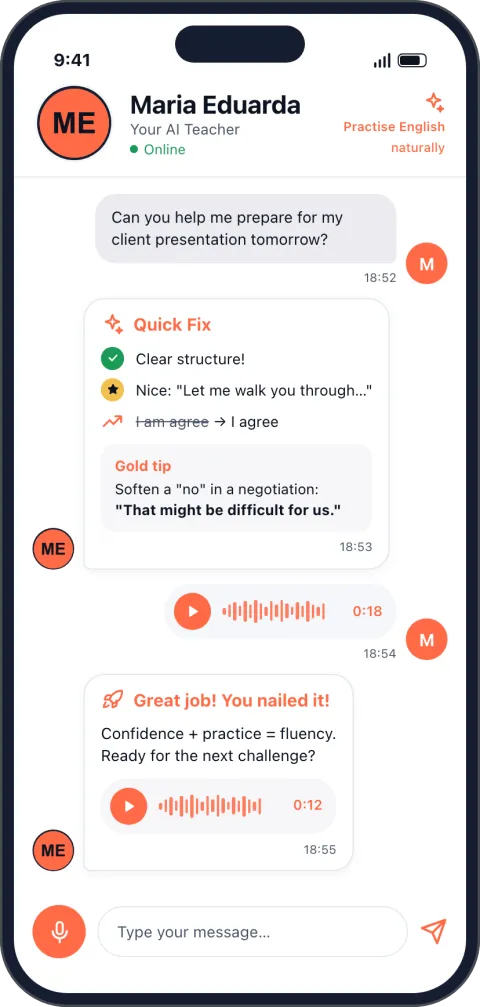
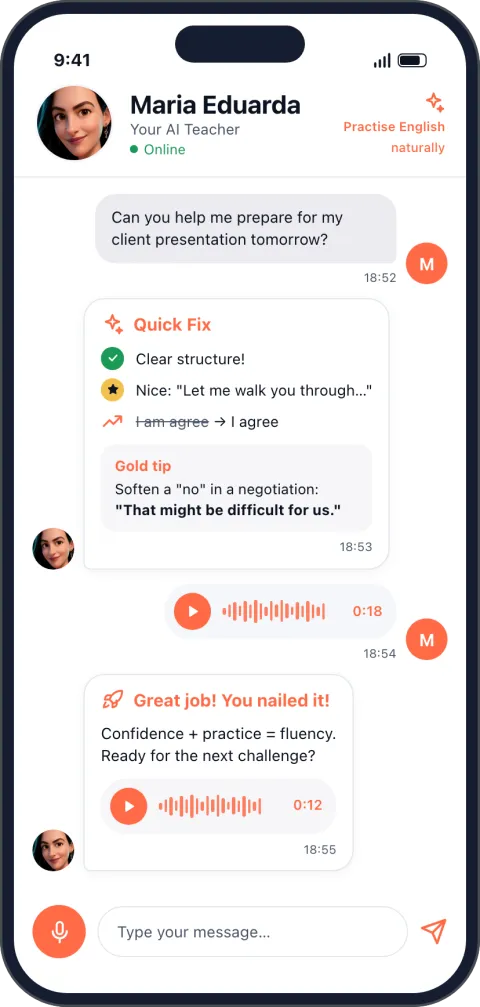
Foto da professora e AI Teacher 3D

Changed region(s): [[0.0625, 0.0616, 0.25, 0.1847], [0.0625, 0.5233, 0.1562, 0.5849], [0.0625, 0.8004, 0.1562, 0.862]]

diff --git a/index.html b/index.html
@@ -134,7 +134,7 @@ fbq('init','[[FALTA: ID do pixel]]');fbq('track','PageView');
 }
 </script>
 -->
-<link rel="preload" as="image" href="img/chat.webp" fetchpriority="high">
+<link rel="preload" as="image" href="img/ai-teacher.webp" imagesrcset="img/ai-teacher-360.webp 360w, img/ai-teacher.webp 640w" imagesizes="(min-width:760px) 360px, 72vw" fetchpriority="high">
 <link rel="icon" href="img/icone.svg" type="image/svg+xml">
 <link rel="stylesheet" href="tokens.css">
 <link rel="stylesheet" href="styles.css">
@@ -153,16 +153,16 @@ fbq('init','[[FALTA: ID do pixel]]');fbq('track','PageView');
 <div>
 <span class="eyebrow"><code>$ standup --english</code> · Inglês para quem trabalha com tecnologia</span>
 <h1 id="h">Você sabe o que fez ontem. Na daily, não sai em inglês?</h1>
-<p class="sub" id="s">O Standup English é o programa de inglês para tech da professora Maria Eduarda Moraes: você treina a fala todo dia com uma AI Teacher, ensaia a daily, a entrevista e o call em simulados reais e tem feedback humano todo mês.</p>
+<p class="sub" id="s">O Standup English é o programa de inglês para tech da professora Maria Eduarda Moraes: você treina a fala todo dia com a AI Teacher dela, com o rosto, a voz e o jeito de ensinar da Maria, ensaia a daily, a entrevista e o call em simulados reais e tem feedback humano todo mês.</p>
 <a class="btn js-comprar" href="#preco" aria-label="Começar o Standup English por R$ 100 por mês">Quero começar <svg viewBox="0 0 24 24" fill="none" stroke="currentColor" stroke-width="2.5" stroke-linecap="round" stroke-linejoin="round" aria-hidden="true"><path d="M5 12h14M13 6l6 6-6 6"/></svg></a>
 <p class="micro">R$ 100 por mês · 7 dias de garantia</p>
 <p class="apoio"><a href="https://wa.me/?text=Oi%2C%20Maria%20Eduarda%21%20Vim%20pelo%20site%20do%20Standup%20English%20e%20tenho%20uma%20d%C3%BAvida.%20%28ref%3A%20ANG%20%C2%B7%20UTM%29" data-wa>Dúvidas? Fale com a Maria Eduarda no WhatsApp</a></p>
 <p class="cred">Por Maria Eduarda Moraes, quase 20 anos dando aula de inglês.</p>
 </div>
-<figure class="fone-hero">
-<img src="img/chat.webp" width="480" height="1007" fetchpriority="high" alt="Tela do app Standup English com uma conversa por voz com a AI Teacher, com correções durante a conversa.">
-<span class="tag-ai"><svg viewBox="0 0 24 24" fill="none" stroke="currentColor" stroke-width="2" stroke-linecap="round" stroke-linejoin="round" aria-hidden="true"><path d="M12 3l1.8 4.6L18.5 9l-4.7 1.6L12 15l-1.8-4.4L5.5 9l4.7-1.4z"/></svg>AI Teacher 24h</span>
-<figcaption class="bolha"><code>&gt; explain the bug in 30 seconds_</code></figcaption>
+<figure class="ai-hero">
+<img src="img/ai-teacher.webp" srcset="img/ai-teacher-360.webp 360w, img/ai-teacher.webp 640w" sizes="(min-width:760px) 360px, 72vw" width="640" height="849" fetchpriority="high" alt="A AI Teacher do Standup English, versão 3D da professora Maria Eduarda Moraes.">
+<span class="tag-ai"><svg viewBox="0 0 24 24" fill="none" stroke="currentColor" stroke-width="2" stroke-linecap="round" stroke-linejoin="round" aria-hidden="true"><path d="M12 3l1.8 4.6L18.5 9l-4.7 1.6L12 15l-1.8-4.4L5.5 9l4.7-1.4z"/></svg>AI Teacher · 24h</span>
+<figcaption class="bolha"><b>Hi! I'm your AI Teacher.</b><code>&gt; ready for your daily?_</code></figcaption>
 </figure>
 </div>
 </section>
@@ -257,7 +257,32 @@ fbq('init','[[FALTA: ID do pixel]]');fbq('track','PageView');
 <figure class="tela"><img src="img/pronuncia.webp" width="480" height="1007" loading="lazy" alt="Tela do app Standup English com a nota de pronúncia de cada frase."><figcaption>A nota da sua pronúncia, frase a frase.</figcaption></figure>
 <figure class="tela"><img src="img/progresso.webp" width="480" height="1007" loading="lazy" alt="Tela do app Standup English com frequência, tempo de estudo e evolução de nível."><figcaption>Frequência, tempo de estudo e evolução de nível.</figcaption></figure>
 </div>
-<p class="rotulo">Telas ilustrativas. [[FALTA: foto e voz da Maria Eduarda para a AI Teacher]]</p>
+<p class="rotulo">Telas ilustrativas.</p>
+</div>
+</section>
+<section class="escura ai" aria-labelledby="aih">
+<div class="wrap ai-grade">
+<figure class="ai-foto"><img src="img/ai-teacher.webp" srcset="img/ai-teacher-360.webp 360w, img/ai-teacher.webp 640w" sizes="(min-width:760px) 400px, 80vw" width="640" height="849" loading="lazy" alt="A AI Teacher do Standup English em 3D."><span class="tag-ai">AI Teacher</span></figure>
+<div>
+<span class="eyebrow">A sua AI Teacher</span>
+<h2 id="aih">A Maria Eduarda, disponível 24 horas</h2>
+<p style="margin-top:1.2rem">A AI Teacher do Standup English tem o rosto, a voz e o jeito de ensinar da Maria Eduarda. Ela conversa com você em inglês por voz, a qualquer hora, e corrige você enquanto você fala.</p>
+<ul class="ai-lista">
+<li><svg viewBox="0 0 24 24" fill="none" stroke="currentColor" stroke-width="2.5" stroke-linecap="round" stroke-linejoin="round" aria-hidden="true"><path d="M5 12.5l4.5 4.5L19 7.5"/></svg>Disponível 24 horas, no seu celular</li>
+<li><svg viewBox="0 0 24 24" fill="none" stroke="currentColor" stroke-width="2.5" stroke-linecap="round" stroke-linejoin="round" aria-hidden="true"><path d="M5 12.5l4.5 4.5L19 7.5"/></svg>Você fala e ela responde falando</li>
+<li><svg viewBox="0 0 24 24" fill="none" stroke="currentColor" stroke-width="2.5" stroke-linecap="round" stroke-linejoin="round" aria-hidden="true"><path d="M5 12.5l4.5 4.5L19 7.5"/></svg>Corrige pronúncia, gramática e vocabulário enquanto você fala</li>
+<li><svg viewBox="0 0 24 24" fill="none" stroke="currentColor" stroke-width="2.5" stroke-linecap="round" stroke-linejoin="round" aria-hidden="true"><path d="M5 12.5l4.5 4.5L19 7.5"/></svg>Dá a nota da sua pronúncia, frase a frase</li>
+<li><svg viewBox="0 0 24 24" fill="none" stroke="currentColor" stroke-width="2.5" stroke-linecap="round" stroke-linejoin="round" aria-hidden="true"><path d="M5 12.5l4.5 4.5L19 7.5"/></svg>Ensaia com você a daily, a entrevista e o call, e cenários sob medida</li>
+<li><svg viewBox="0 0 24 24" fill="none" stroke="currentColor" stroke-width="2.5" stroke-linecap="round" stroke-linejoin="round" aria-hidden="true"><path d="M5 12.5l4.5 4.5L19 7.5"/></svg>Treina o seu ouvido com diferentes sotaques do inglês</li>
+<li><svg viewBox="0 0 24 24" fill="none" stroke="currentColor" stroke-width="2.5" stroke-linecap="round" stroke-linejoin="round" aria-hidden="true"><path d="M5 12.5l4.5 4.5L19 7.5"/></svg>Aprendeu o método da Maria Eduarda</li>
+<li><svg viewBox="0 0 24 24" fill="none" stroke="currentColor" stroke-width="2.5" stroke-linecap="round" stroke-linejoin="round" aria-hidden="true"><path d="M5 12.5l4.5 4.5L19 7.5"/></svg>Retoma de onde você parou e lembra você de praticar</li>
+</ul>
+<div class="ai-extras">
+<div><strong>A IA ajuda, a professora decide.</strong> A IA não muda o seu plano sem a aprovação da Maria Eduarda.</div>
+<div><strong>A sua fala é sua.</strong> A Maria vê o seu relatório de desempenho, não o áudio. As gravações de speaking são apagadas em 30 dias.</div>
+</div>
+<a class="btn js-comprar" href="#preco" style="margin-top:1.8rem">Quero treinar com a AI Teacher</a>
+</div>
 </div>
 </section>
 
@@ -286,7 +311,7 @@ fbq('init','[[FALTA: ID do pixel]]');fbq('track','PageView');
 <p style="margin-top:1.2rem">A Maria Eduarda Moraes dá aula de inglês há quase 20 anos e criou o próprio material, com o inglês do dia a dia, dos negócios e das viagens.</p>
 <p>A metodologia dela é simulação: em vez de decorar, você entra na conversa real e treina até ela sair. [[VALIDAR: experiência com alunos de empresas europeias, se puder citar]]</p>
 </div>
-<div class="selo foto-prof">[[FALTA: foto da Maria Eduarda]]</div>
+<figure class="foto-prof"><img src="img/maria-eduarda.webp" width="600" height="601" loading="lazy" alt="Maria Eduarda Moraes, professora de inglês, sorrindo."><figcaption><b>Maria Eduarda Moraes</b><span>Professora de inglês · criadora do Standup English</span></figcaption></figure>
 </div>
 </section>
 

diff --git a/standup.css b/standup.css
@@ -29,8 +29,30 @@ code{font-family:var(--fonte-mono);font-size:.92em}
 .term-item p{margin:.35rem 0 0;color:var(--cor-sobre-escura)}
 .sim p{color:var(--cor-lavanda)}
 /* professora */
-.foto-prof{display:grid;place-items:center;min-height:240px;background:var(--cor-fundo);color:var(--cor-texto-suave);text-align:center;font-family:var(--fonte-mono);font-size:.9rem}
+.foto-prof{position:relative;margin:0 auto;width:min(380px,100%)}
+.foto-prof img{display:block;width:100%;height:auto;aspect-ratio:1;object-fit:cover;border-radius:24px;border:3px solid var(--cor-destaque);box-shadow:var(--sombra)}
+.foto-prof figcaption{position:absolute;left:1rem;right:1rem;bottom:-1.4rem;background:var(--cor-primaria);color:var(--cor-sobre-escura);border-radius:14px;padding:.8rem 1rem;box-shadow:var(--sombra)}
+.foto-prof figcaption b{display:block;font-family:var(--fonte-titulo)}
+.foto-prof figcaption span{font-size:.85rem;color:var(--cor-lavanda)}
 .assin code{color:var(--cor-acento)}
 @media(min-width:760px){.hero .fone-hero{width:300px;margin:0 0 -3rem}.fone-hero .bolha{right:-3rem}}
 .topo .btn{white-space:nowrap;padding:.6rem 1rem;font-size:.9rem}
 @media(max-width:380px){.logo-se b{font-size:1.1rem}.logo-se i{font-size:.95rem}}
+/* AI Teacher: hero e seção */
+.ai-hero{position:relative;margin:1rem auto 2.5rem;width:min(290px,72vw);justify-self:center}
+.ai-hero img,.ai-foto img{display:block;width:100%;height:auto;aspect-ratio:640/849;border-radius:28px;border:3px solid var(--cor-destaque);box-shadow:0 20px 60px color-mix(in srgb,var(--cor-destaque) 28%,transparent)}
+.ai-hero .tag-ai{left:1rem;top:1rem}
+.ai-hero .bolha{position:absolute;left:-1rem;bottom:1.4rem;max-width:16rem;background:var(--cor-fundo);color:var(--cor-texto);padding:.8rem 1rem;border-radius:18px 18px 18px 4px;box-shadow:var(--sombra);font-size:.9rem;line-height:1.35}
+.ai-hero .bolha b{display:block;font-family:var(--fonte-titulo)}
+.ai-hero .bolha code{color:var(--cor-destaque-texto);font-size:.85em}
+.ai-grade{display:grid;gap:2.5rem;align-items:center}
+.ai-foto{position:relative;margin:0 auto;width:min(360px,80vw)}
+.ai-foto .tag-ai{left:1rem;top:1rem}
+.ai p{color:var(--cor-lavanda);max-width:56ch}
+.ai-lista{list-style:none;padding:0;margin:1.5rem 0 0;display:grid;gap:.7rem}
+.ai-lista li{display:flex;gap:.6rem;align-items:flex-start;color:var(--cor-sobre-escura)}
+.ai-lista svg{flex:none;width:1.25rem;height:1.25rem;color:var(--cor-acento);margin-top:.15rem}
+.ai-extras{display:grid;gap:.8rem;margin-top:1.6rem}
+.ai-extras div{border:1px solid var(--cor-azul-medio);border-radius:var(--raio);padding:.9rem 1rem;color:var(--cor-lavanda);font-size:.92rem}
+.ai-extras strong{color:var(--cor-sobre-escura)}
+@media(min-width:760px){.hero .ai-hero{width:340px;margin:0 0 -3rem}.ai-hero .bolha{left:-3rem}.ai-grade{grid-template-columns:.85fr 1.15fr;gap:4rem}.ai-lista{grid-template-columns:1fr 1fr}.ai-extras{grid-template-columns:1fr 1fr}}
